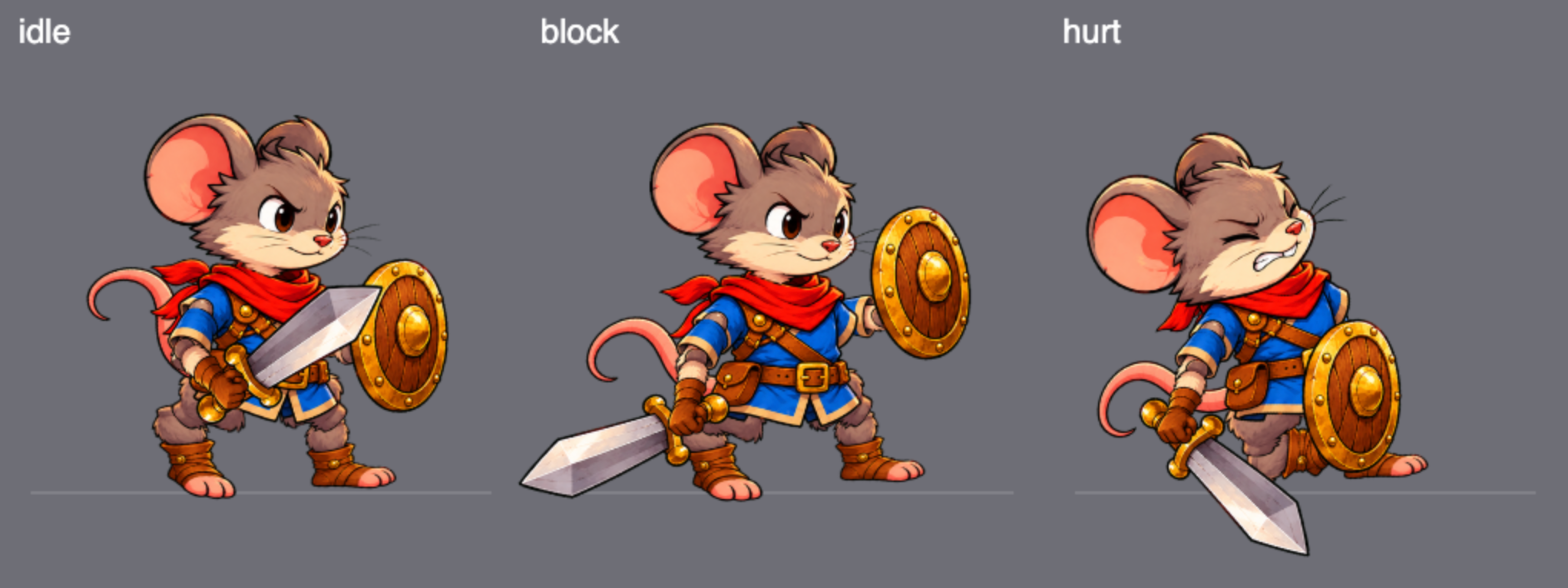
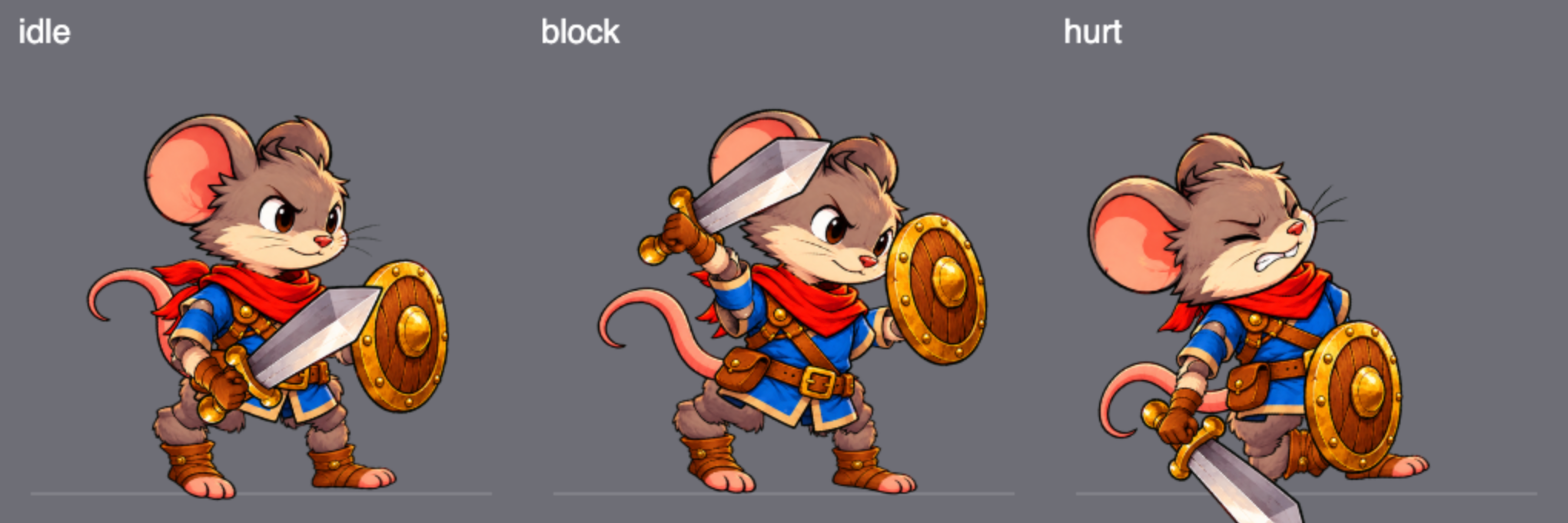
T007: block pose braces into the shield with the sword cocked (user note)

diff --git a/src/render/standee.js b/src/render/standee.js
@@ -5,6 +5,7 @@ import { RULES } from '../data/rules.js';
 import { silhouette } from './tint.js';
 
 const ZERO = { rot: 0, sx: 1, sy: 1, dx: 0, dy: 0 };
+export const BLOCK_LEAN = 0.08;   // standee's forward lean while blocking (the rig's joints lean on their own)
 const lerp = (a, b, t) => a + (b - a) * t;
 const easeOut = (t) => 1 - (1 - t) ** 3;
 const mix = (a, b, t) => {
@@ -25,9 +26,9 @@ export function poseOf(f, time) {
   switch (f.state) {
     case 'idle': { const b = Math.sin(time * 3 + f.id) * 0.018; return { ...ZERO, sy: 1 + b, sx: 1 - b }; }
     case 'walk': { const s = Math.sin(f.t * 0.24); return { ...ZERO, dy: -Math.abs(s) * 5, rot: s * 0.05 }; }
-    case 'block': {   // braced lean back behind the shield; jolts on a blocked hit (blockstun)
+    case 'block': {   // braced forward into the shield, crouched; jolts back on a blocked hit (blockstun)
       const k = f.t < f.stun ? 1 - f.t / f.stun : 0;
-      return { ...ZERO, rot: -0.1 - 0.12 * k, dx: -3 - 4 * k, sx: 0.96 + 0.04 * k, sy: 1.02 - 0.04 * k };
+      return { ...ZERO, rot: BLOCK_LEAN - 0.2 * k, dx: -6 * k, sx: 1.03, sy: 0.96 };
     }
     case 'jump': return { ...ZERO, rot: f.vz > 0 ? -0.1 : 0.08, sx: 1 - f.vz * 0.008, sy: 1 + f.vz * 0.012 };
     case 'hurt': { const k = 1 - f.t / Math.max(1, f.stun); return { ...ZERO, rot: -0.25 * k, dx: f.t < 8 ? (f.t % 2 ? 3 : -3) : 0, sx: 1 + 0.05 * k, sy: 1 - 0.05 * k }; }

diff --git a/src/data/rigs/mouse-fighter-poses.js b/src/data/rigs/mouse-fighter-poses.js
@@ -41,12 +41,12 @@ export default {
     'leg-back-upper': -60, 'leg-back-lower': 75, 'leg-front-upper': -25, 'leg-front-lower': 70,
     tail: 25, 'scarf-tail': 30,
   },
-  block: {   // shield raised forward, sword drawn back, braced low; head stays neutral
-    torso: -2, head: 2, dy: 3,
-    'arm-back-upper': -88, 'arm-back-lower': -40, shield: 0,
-    'arm-front-upper': 35, 'arm-front-lower': -30, sword: 157,   // tip: -2 + 35 - 30 + 157 = 160, back and low
-    'leg-back-upper': -60, 'leg-back-lower': 50, 'leg-front-upper': 62, 'leg-front-lower': -66,
-    tail: -10, 'scarf-tail': -8,
+  block: {   // braced behind the shield: leaning into it, wide stance, sword cocked over the shoulder ready to answer
+    torso: 12, head: 4, dy: 2,
+    'arm-back-upper': -104, 'arm-back-lower': -44, shield: -4,   // shield pushed forward, top at chin height
+    'arm-front-upper': 150, 'arm-front-lower': -40, sword: -152,   // tip: 12 + 150 - 40 - 152 = -30, up and forward
+    'leg-back-upper': -72, 'leg-back-lower': 56, 'leg-front-upper': 50, 'leg-front-lower': -62,
+    tail: -15, 'scarf-tail': -20,
   },
   hurt: {
     swap: { head: 'head-hurt' },

diff --git a/src/render/rig.js b/src/render/rig.js
@@ -1,7 +1,7 @@
 // Draws a fighter as a cutout rig: parts in a hierarchy, posed by rig-pose.js, drawn into a
 // buffer that is then placed like a standee (same lean/squash/flip, shadow, flash and tints).
 import { phaseOf } from '../sim/fighter.js';
-import { poseOf } from './standee.js';
+import { poseOf, BLOCK_LEAN } from './standee.js';
 import { rigJoints } from './rig-pose.js';
 
 const RES = 2;                                   // buffer px per screen px (keeps parts sharp)
@@ -80,6 +80,7 @@ export function drawRig(ctx, f, rig, assets, time, flash = 0, pose) {
   const p = { ...poseOf(f, time) };
   if (f.move) p.rot *= rig.poses.timing.bodyLean;   // the joints already lean into the swing
   if (f.state === 'walk' && !f.move) { p.dy = 0; p.rot = 0; }   // the rig's own walk cycle bobs in step
+  if (f.state === 'block') { p.rot -= BLOCK_LEAN; p.sx = p.sy = 1; }   // the block pose leans and crouches; keep only the jolt
   let alpha = 1;
   if (f.state === 'dead') alpha = f.t % 8 < 4 ? 1 : 0.25;
   if (f.invuln > 0 && f.state === 'idle') alpha = f.invuln % 6 < 3 ? 1 : 0.55;

diff --git a/docs/MODULES.md b/docs/MODULES.md
@@ -35,7 +35,7 @@ One line per file: what it does and what it exports. **Read this instead of the 
 | File | Purpose | Exports |
 |---|---|---|
 | `src/render/renderer.js` | Draw order: backdrop, stage, shadows, fighters by depth (rig if `art.rig` and `opts.rig`, else standee), effects, HUD, debug | `createRenderer` |
-| `src/render/standee.js` | Fighter drawn as a standee: lean/squash/hop per state (block = braced lean back, jolts in blockstun) and move phase, flips, flashes, tints | `drawStandee drawShadow poseOf` |
+| `src/render/standee.js` | Fighter drawn as a standee: lean/squash/hop per state (block = braced forward lean, jolts back in blockstun; `BLOCK_LEAN` is undone by the rig) and move phase, flips, flashes, tints | `drawStandee drawShadow poseOf` |
 | `src/render/rig.js` | Fighter drawn as a cutout rig: part hierarchy -> buffer, then placed like a standee (lean, flip, flash, tints). Draws swap images (`layoutRig(rig, joints, swap)` returns each part's `img`); optional held pose (`cast`) | `drawRig layoutRig` |
 | `src/render/rig-pose.js` | Rig pose per state/move phase (waves, windup/through/strike, easing, overshoot) and blending from the last drawn pose; part swaps per pose/phase (switch at once, strike swaps last `timing.swapBack` of recovery); optional pose override. Channels: joint angles, dx/dy, per-part `.sx/.sy` stretch and `.order`. Pure | `targetPose rigJoints channelsOf jointsOfRig` |
 | `src/render/effects.js` | Slash swooshes (optionally `flat` for level sweeps), sparks, rings, damage numbers, dust; block clang (bright sparks toward the attacker, shield-side flash, double ring) (from events) | `createEffects` |

diff --git a/docs/STATUS.md b/docs/STATUS.md
@@ -41,6 +41,7 @@
 - League of Legends-style hero kits (passive + three cooldown abilities + an ultimate, on top of the basic combo), like Dungeon Fighter Online. User is a big LoL fan. Idea only, for Stage 8 heroes; mind button count.
 
 ## Last session
+2026-10-14 code: T007 round 2: user likes the block mechanics but not the pose ("drops his sword and leans back"). New rig `block`: leaning into a raised shield (chin height), wide brace, sword cocked over the shoulder; standee leans forward and only jolts back on a blocked hit. Screens replaced. User idea for the lead: a parry later.
 2026-10-14 code: T007 on branch `t007-shield-block`: hold L / RB blocks (state `block`, shuffle 0.6, facing locked); frontal hits -> `block` event (chip 0, pushback, 12f blockstun, attacker shoved and its lunge stops), from behind lands. Clang fx, rig `block` pose, standee lean, run log `blocks`, lab "Hero block" sliders. L downloads logs only on game over.
 2026-10-14 code: 7/7 tests (new tests/block.test.mjs); bot run identical to main apart from the new `blocks: 0` field. Screens in docs/screens/T007/. Human check open: does blocking feel solid, rats fair?
 2026-10-14 lead: merged T006 (belt 400..463, mild zoom; lab Stage sliders). Belt depth to be revisited with stage art (Stage 5). Cast-pose toggle bug folded into T008.
